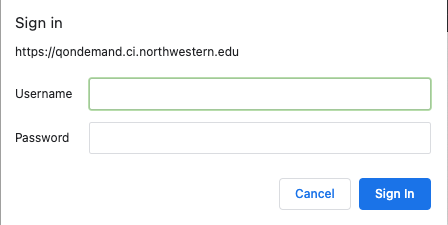
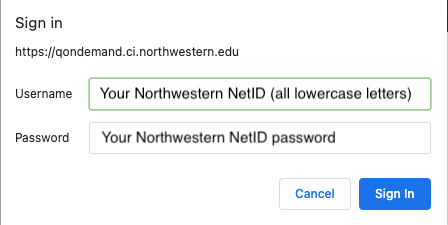
add more pictures

Changed region(s): [[0.2188, 0.3733, 0.9375, 0.4667], [0.2188, 0.56, 0.75, 0.6533]]

diff --git a/README.md b/README.md
@@ -2,11 +2,15 @@
 
 ## Table of Contents
 
-- [Overview](#overview)
-- [Accessing OnDemand](#accessing_ondemand)
-- [File Management](#file_management)
-- [Job Management](#job_management)
-- [Accessing Comman-line Shell](#accessing_shell)
+- [OnDemand](#ondemand)
+  - [Table of Contents](#table-of-contents)
+  - [Overview <a name = "overview"></a>](#overview-)
+  - [Accessing OnDemand  <a name = "accessing_ondemand"></a>](#accessing-ondemand--)
+    - [Browser Requirements](#browser-requirements)
+  - [File Management  <a name = "file_management"></a>](#file-management--)
+  - [Job Management <a name = "job_management"></a>](#job-management-)
+  - [Accessing Command-line Shell <a name = "accessing_shell"></a>](#accessing-command-line-shell-)
+  - [References](#references)
   
 ## Overview <a name = "overview"></a>
 
@@ -21,7 +25,7 @@ Please make sure you have a valid Quest account, otherwise, computational time o
 To connect to OnDemand, open a browser and visit https://qondemand.ci.northwestern.edu/. For unmanaged university computers or home computers, please make sure you are connected to a [Northwestern VPN](https://www.it.northwestern.edu/offcampus/). A popup window would ask for your username and password.\
 **Hostname** : qondemand.ci.northwestern.edu\
 **Username** : your Northwestern NetID (all lowercase letters)\
-**Password** : your Northwestern NetID password\
+**Password** : your Northwestern NetID password
 
 ![Sign In Popup Window](images/signin.png)
 
@@ -39,8 +43,9 @@ Also, please make sure that your browser's pop-up blocker isn't preventing the s
 Once you've logged into OnDemand, by clicking "Files" &#8594; "Home Directory" in the main menu, you will be directed to the file explorer page. By default, you will be viewing your home directory on Quest: ```/home/<NetID>```. The home directory has 80GB of storage and is backed up nightly. Backups are kept for two weeks.
 
 ![File Explorer](images/file_navigation.png)
+![all options](images/allOptions.png)
 
-### Navigating
+**Navigating**
 
 The file explorer provides many options to go to your files and file management. You can navigate the folders similarly to a desktop GUI. Your **current directory** is located on the near top of the browsing window.
 
@@ -51,11 +56,14 @@ The file explorer provides many options to go to your files and file management.
 - Double click the folder name in the main section
 - Single click the folder name in the left tree view
 - Click the button named "GO TO..." and enter your folder directory
+![go to](images/goto.png)
 
 **Backtracting the path:**
 
-- Double click the ".." which is the first entry on top of your files in the main section
 - Single click the filename marked as blue in your current directory
+- Double click the ".." which is the first entry on top of your files in the main section
+![backtract](images/back.png)
+
 
 **Uploading files**
 
@@ -63,29 +71,28 @@ Go to your destination folder, and then
 
 - Drag files from your local file navigator to your OnDemand browser window
 - Click "Upload" button located on the top-right corner of your browser and click "Choose Files" button to choose files in your local computer
-  
+![upload](images/upload.png)
+
 **Downloading files**
 
-- Click the file or multiselect the files first. Then click the "Download" button. Please note that if multiple files are selected, it will be automatically zipped when downloading.
-  
+- Click the file or multiselect with "control+click" the files first. Then click the "Download" button. Please note that if a folder is selected, it will be automatically zipped when downloading.
+![download](images/download.png)
+
 **Viewing or Editing files**
 
-- Click the file or multiselect the files first. Then click either "View" or "Edit" button. Please note that to save your editing content, please click the "Save" button located on the top-left corner of your browser.
+- OnDemand offers built-in file editors with syntax highlight which will automatically be opened in a new tab of your browser. To view or edit a file, select the file name you would like to view or edit, then click the "View" or "Edit" button to direct to the new tab.
+![edit a file](images/edit.png)
 
-**Selecting multiple files**
+- Then single click the refreshing icon located on the left of current directory to let new changes appearing on the screen
+![refresh](images/refresh.png)
 
-- Press "(Un)Select All" button
-- Press "control+click", "command+click" or "shift+click" on keyboard while selecting
-  
-**To refresh the file explorer**
+**Changing viewing options**
 
-- Single click the refreshing icon located on the left of current directory
+- To show all dotfiles such as *.bash_profile*, please select the checkbox named "Show Dotfiles" on the upper-right corner of the webpage.
 
-### Viewing Options
+- To view file owner or mode, please select the checkbox named "Show Owner/Mode" on the upper-right corner of the webpage.
 
-To show all dotfiles such as *.bash_profile*, please select the checkbox named "Show Dotfiles" on the upper-right corner of the webpage.
-
-To view file owner or mode, please select the checkbox named "Show Owner/Mode" on the upper-right corner of the webpage.
+![viewing options](images/viewing_options.png)
 
 --- 
 
@@ -119,8 +126,11 @@ Submit the job and monitor the progress from the "Job Composer" index page.
 Without openning a terminal window, you can open  Quest S shell via OnDemand, which is equivalent to [connecting with an SSH terminal](https://kb.northwestern.edu/quest-login) with the following ways.
 
 - Navigate to "Clusters"  &#8594; "_Quest S Shell Access" on the main menu in dashboard
+![Shell](images/shell.png)
 - Under Job Composer page (qondemand.ci.northwestern.edu/pun/sys/myjobs), click "Open Terminal" button. Please note that in the terminal page, your default working location would be your job script location.
+- ![Shell in Jobs Page](images/shell_jobs.png)
 - Under File Explorer page (qondemand.ci.northwestern.edu/pun/sys/files/fs/home/NetID/), click "Open in Terminal" button. Please note that in the terminal page, your default working location would be whatever is your current viewing directory on OnDemand.
+![Shell in File Explorer](images/shell_fileExplorer.png)
   - To print your current working directory in shell, please type ```pwd```.
   - [Command line introduction](https://workshops.rcs.northwestern.edu/workshop/command_line/)
   - [Quest Quick Start](https://kb.northwestern.edu/quest-quickstart)
